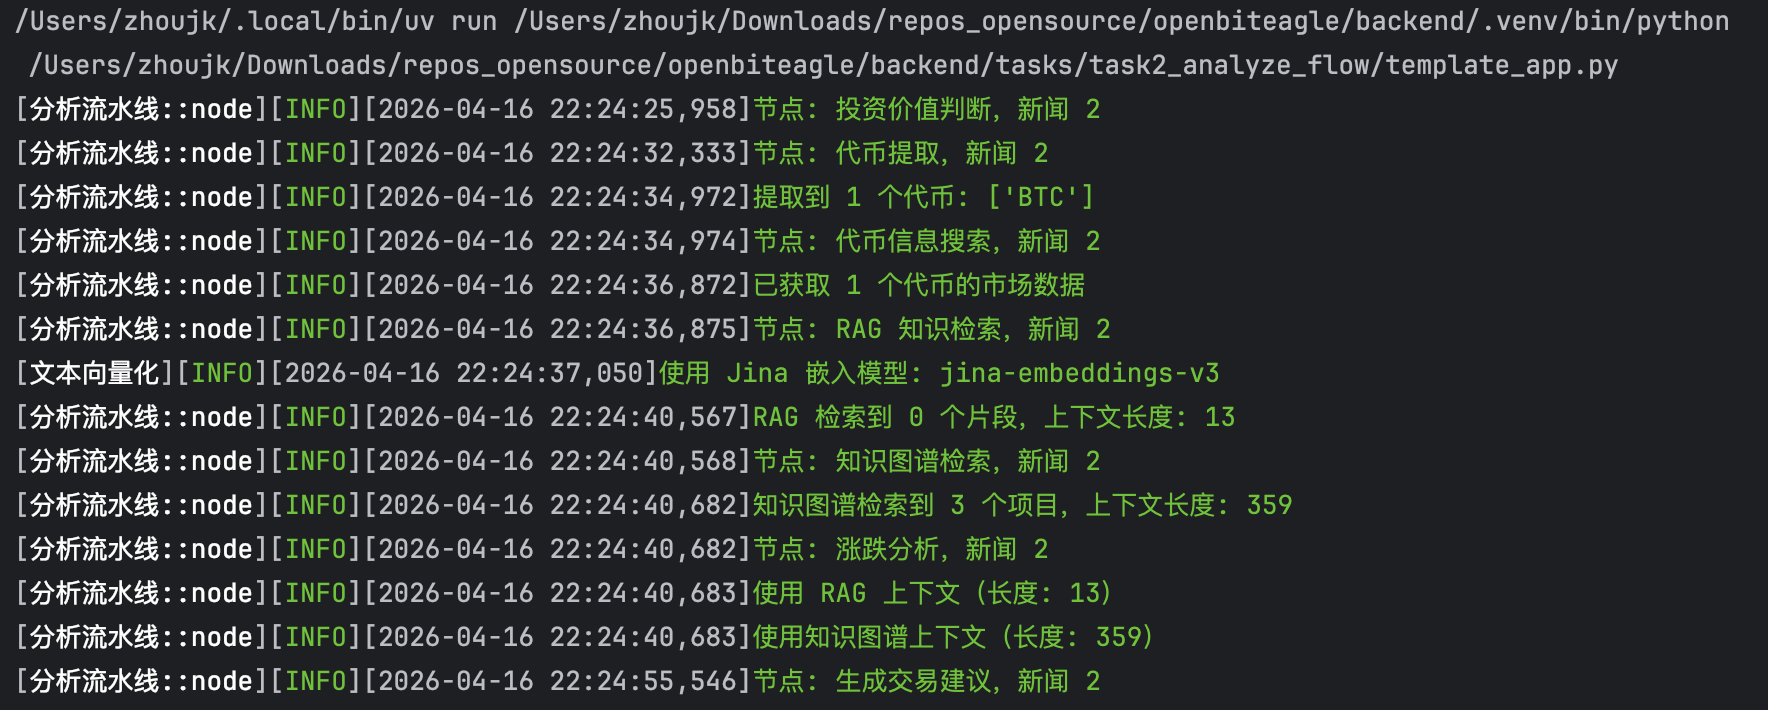
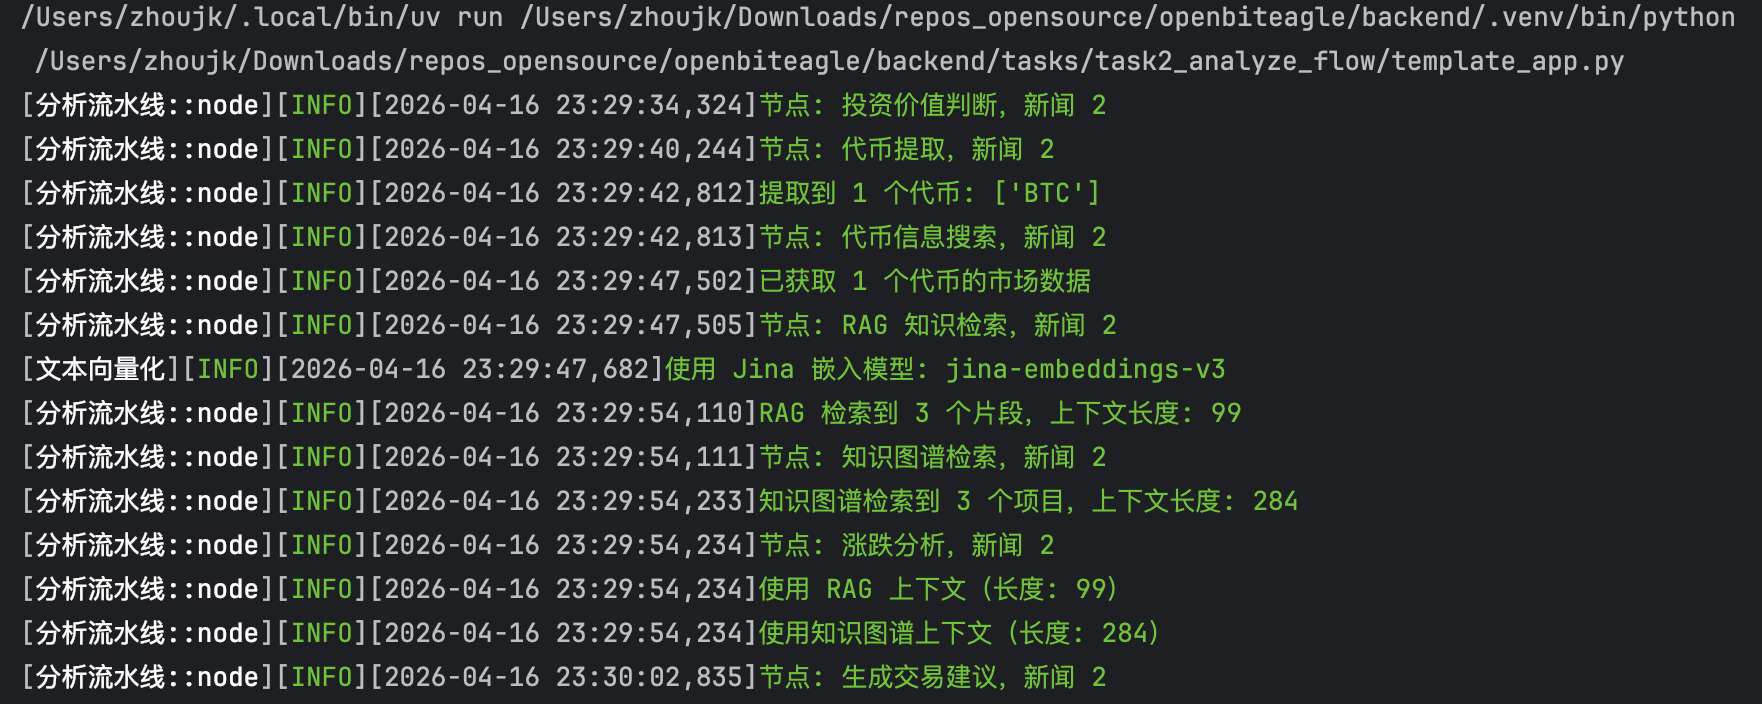
fix: rag extract token

Changed region(s): [[0.0, 0.0, 0.9989, 1.0]]

diff --git a/backend/scripts/fix_chunk_tokens.py b/backend/scripts/fix_chunk_tokens.py
@@ -1,0 +1,143 @@
+#!/usr/bin/env python3
+"""修复现有 DocumentChunk 的 tokens 字段。
+
+对每个文档，调用 LLM 提取代币符号，然后批量更新该文档下所有 chunks。
+1 个文档 = 1 次 LLM 调用。
+
+用法：
+  python scripts/fix_chunk_tokens.py          # 预览模式，只显示将做的修改
+  python scripts/fix_chunk_tokens.py --apply   # 实际写入数据库
+"""
+
+import argparse
+import asyncio
+import sys
+from pathlib import Path
+
+sys.path.insert(0, str(Path(__file__).parent.parent))
+
+from sqlalchemy import select, update
+
+from app.data.db import AsyncSessionLocal
+from app.models.document import Document, DocumentChunk
+from app.rag.embeddings import extract_tokens_from_text
+
+
+async def build_doc_tokens_map() -> dict[int, list[str]]:
+    """为每个文档调用 LLM 提取 tokens（1 个文档 1 次 LLM 调用）。
+
+    优先使用 metadata["tokens"]，否则用 LLM 从标题+内容提取。
+    """
+    doc_tokens: dict[int, list[str]] = {}
+
+    async with AsyncSessionLocal() as db:
+        result = await db.execute(select(Document))
+        docs = result.scalars().all()
+
+        for doc in docs:
+            tokens = (doc.meta_data or {}).get("tokens", [])
+            if not tokens:
+                text = f"{doc.title} {doc.content[:2000]}"
+                print(f"   🤖 LLM 提取代币: 文档 {doc.id} ({doc.title})")
+                tokens = await extract_tokens_from_text(text)
+            doc_tokens[doc.id] = tokens
+
+    return doc_tokens
+
+
+async def fix_chunk_tokens(apply: bool = False):
+    """扫描并修复所有 chunk 的 tokens。"""
+    print("=" * 60)
+    print("修复 DocumentChunk tokens 字段")
+    print(f"模式: {'写入' if apply else '预览（加 --apply 实际写入）'}")
+    print("=" * 60)
+    print()
+
+    # 1. 构建文档 → tokens 映射（按文档调用 LLM）
+    print("正在扫描文档并提取代币...")
+    doc_tokens = await build_doc_tokens_map()
+    print(f"   共 {len(doc_tokens)} 篇文档")
+    print()
+
+    # 2. 遍历所有 chunk
+    async with AsyncSessionLocal() as db:
+        result = await db.execute(
+            select(DocumentChunk).order_by(DocumentChunk.document_id, DocumentChunk.chunk_index)
+        )
+        chunks = result.scalars().all()
+
+        print(f"共 {len(chunks)} 个分块")
+        print()
+
+        to_update = []
+        empty_count = 0
+
+        for chunk in chunks:
+            # 文档级 tokens 直接继承
+            new_tokens = doc_tokens.get(chunk.document_id, [])
+            old_tokens = list(chunk.tokens) if chunk.tokens else []
+
+            if new_tokens != old_tokens:
+                to_update.append((chunk.id, old_tokens, new_tokens))
+                if not old_tokens:
+                    empty_count += 1
+
+        # 3. 汇总统计
+        print(f"需要修复: {len(to_update)} 个分块（其中 {empty_count} 个 tokens 为空）")
+
+        if not to_update:
+            print()
+            print("所有分块 tokens 已正确，无需修复。")
+            return
+
+        # 按文档分组显示
+        current_doc_id = None
+        for chunk_id, old, new in to_update[:30]:
+            for chunk in chunks:
+                if chunk.id == chunk_id:
+                    if chunk.document_id != current_doc_id:
+                        current_doc_id = chunk.document_id
+                        doc_tok = doc_tokens.get(current_doc_id, [])
+                        print(f"\n   文档 {current_doc_id} (tokens: {doc_tok})")
+                    break
+            old_str = ", ".join(old) if old else "(empty)"
+            new_str = ", ".join(new) if new else "(empty)"
+            print(f"     chunk {chunk_id}: [{old_str}] -> [{new_str}]")
+
+        if len(to_update) > 30:
+            print(f"\n   ... 还有 {len(to_update) - 30} 个分块未显示")
+
+        if not apply:
+            print()
+            print("这是预览模式。运行 'python scripts/fix_chunk_tokens.py --apply' 实际写入。")
+            return
+
+        # 4. 批量更新
+        print()
+        print("正在写入数据库...")
+
+        updated = 0
+        for chunk_id, old, new in to_update:
+            await db.execute(
+                update(DocumentChunk)
+                .where(DocumentChunk.id == chunk_id)
+                .values(tokens=new)
+            )
+            updated += 1
+            if updated % 100 == 0:
+                print(f"   已更新 {updated}/{len(to_update)}...")
+
+        await db.commit()
+
+        print()
+        print("=" * 60)
+        print(f"已修复 {updated} 个分块的 tokens 字段")
+        print("=" * 60)
+
+
+if __name__ == "__main__":
+    parser = argparse.ArgumentParser(description="修复 DocumentChunk 的 tokens 字段")
+    parser.add_argument("--apply", action="store_true", help="实际写入数据库（默认为预览模式）")
+    args = parser.parse_args()
+
+    asyncio.run(fix_chunk_tokens(apply=args.apply))

diff --git a/backend/app/rag/embeddings.py b/backend/app/rag/embeddings.py
@@ -3,11 +3,78 @@
 from typing import Optional
 
 import httpx
+from pydantic import BaseModel, Field
 
 from app.core.config import cfg
 from app.data.logger import create_logger
 
 logger = create_logger("文本向量化")
+
+
+# ── LLM 代币提取 ──────────────────────────────────────────────
+
+class TokenSymbolOutput(BaseModel):
+    """LLM 结构化输出：代币符号列表。"""
+    symbols: list[str] = Field(default_factory=list, description="提取到的代币符号列表，如 ['BTC', 'ETH']")
+
+
+_TOKEN_EXTRACTION_PROMPT = """你是一名加密货币专家。请从以下文本中提取所有相关的加密货币代币符号。
+
+## 文本内容
+{content}
+
+## 任务
+
+识别文本中提到的加密货币、区块链项目或公司，返回它们的交易代码（symbol），例如 BTC、ETH、SOL 等。
+
+要求：
+- 能识别中文描述（如"比特币"→BTC、"以太坊"→ETH、"索拉纳"→SOL）
+- 能识别英文全称（如 Bitcoin→BTC、Ethereum→ETH）
+- 能识别常见变体写法和简称
+- 能识别项目/公司关联的代币（如提到 Circle 应返回 USDC，提到 Uniswap 应返回 UNI）
+- 排除已停止维护/废弃的项目
+- 排除仅被一带而过、与主题无关的代币
+- 宁可多提取也不要遗漏，因为结果用于 RAG 检索过滤
+
+如果未找到相关代币，请返回空列表。"""
+
+
+async def extract_tokens_from_text(text: str) -> list[str]:
+    """调用 LLM 从文本中提取代币符号。
+
+    Args:
+        text: 待提取的文本（建议不超过 2000 字符以提高速度和准确性）
+
+    Returns:
+        代币符号列表，如 ["BTC", "ETH"]
+    """
+    from app.wrappers.llm.client import call_llm_structured, get_llm
+
+    llm = get_llm(temperature=0)
+    prompt = _TOKEN_EXTRACTION_PROMPT.format(content=text[:2000])
+
+    schema = {
+        "type": "object",
+        "properties": {
+            "symbols": {
+                "type": "array",
+                "items": {"type": "string"},
+            }
+        },
+        "required": ["symbols"],
+    }
+
+    try:
+        result = await call_llm_structured(llm, prompt, TokenSymbolOutput, schema)
+        tokens = [s.upper() for s in result.symbols]
+        logger.info(f"LLM 提取代币: {tokens}")
+        return tokens
+    except Exception as e:
+        logger.warning(f"LLM 代币提取失败: {e}")
+        return []
+
+
+# ── 嵌入服务 ──────────────────────────────────────────────────
 
 
 class JinaEmbeddings:
@@ -197,13 +264,24 @@ class EmbeddingService:
 
         embedding_vectors = await self.embed_texts(chunks)
 
+        # 从文档 metadata 中提取 tokens
+        doc_tokens = (doc.meta_data or {}).get("tokens", [])
+
+        # 如果文档 metadata 没有 tokens，调用 LLM 从标题和内容中提取
+        if not doc_tokens:
+            doc_tokens = await extract_tokens_from_text(
+                f"{doc.title} {doc.content[:2000]}"
+            )
+
         async with AsyncSessionLocal() as db:
             for i, (chunk, embedding) in enumerate(zip(chunks, embedding_vectors)):
+                # 每个 chunk 继承文档级 tokens
                 chunk_record = DocumentChunk(
                     document_id=document_id,
                     chunk_index=i,
                     content=chunk,
                     embedding=embedding,
+                    tokens=list(doc_tokens),
                 )
                 db.add(chunk_record)
 

diff --git a/backend/tasks/task4_rag_knowledge/import_whitepapers.py b/backend/tasks/task4_rag_knowledge/import_whitepapers.py
@@ -109,6 +109,7 @@ async def _process_whitepaper(pdf_path: Path) -> dict:
         return {"file": filename, "status": "duplicate", "existing_id": existing_id}
 
     # 存入 Document 表
+    # 不设 tokens，让 process_document 通过 LLM 从内容中提取
     doc_id = await insert_document(
         title=pdf_path.stem,
         content=content,

diff --git a/README.md b/README.md
@@ -22,7 +22,7 @@ frontend/  # 前端界面
 infra/     # 基础设施
 ```
 
-## 任务说明
+## 任务
 
 ### ✅ 任务 1：数据获取
 
@@ -102,7 +102,7 @@ should_continue: True
     - 处理失败时进行重试，超过重试次数进入死信队列
 - 分析完成后将结果写入数据库
 
-### 任务 4：RAG知识库
+### ✅ 任务 4：RAG知识库
 
 增强RAG分析能力，构建知识库并实现检索，4步：
 
@@ -150,7 +150,7 @@ langsmith界面查看langgraph流水线执行结果如下：
 
 图-langsmith界面查看langgraph流水线执行结果
 
-### 任务 7：知识图谱
+### ✅ 任务 7：知识图谱
 
 使用知识图谱补充实体关系信息。
 
@@ -168,7 +168,7 @@ langsmith界面查看langgraph流水线执行结果如下：
 
 ## 完整案例
 
-## 新闻
+**新闻**
 
 ```
 "news_id": 2,
@@ -176,55 +176,56 @@ langsmith界面查看langgraph流水线执行结果如下：
 "content": "The SEC has officially approved the Bitcoin ETF application."
 ```
 
-## 日志
+**日志**
 
 ![工作流运行日志](./backend/assets/工作流运行日志.png)
 
 图-工作流运行日志
 
-## 结果
+**结果**
 
-```
-news_id: 2
-title: Bitcoin ETF approved by SEC
-content: The SEC has officially approved the Bitcoin ETF application.
-investment_value: bullish
-investment_confidence: 0.9
-investment_reasoning: 1. 代币明确性：新闻明确指向比特币（Bitcoin）。2. 市场影响：SEC批准比特币ETF是重大实质性利好，将大幅降低传统投资者参与比特币投资的门槛，预期带来大量新增资金流入。3. 信息质量：假设新闻来源为权威媒体（如SEC官方公告），信息高度可靠且可验证。4. 市场关注度：此为市场长期期待的关键事件，极有可能引发全球性高度关注、显著增加交易量并推动价格上涨。
-tokens: [{'symbol': 'BTC', 'name': 'Bitcoin', 'confidence': 1.0}]
-token_details: {'BTC': {'symbol': 'BTC', 'name': 'Bitcoin', 'price': 73516.55777901717, 'market_cap': 1471554250552.1128, 'change_24h': -1.10282671, 'volume_24h': 38214267520.941475}}
-rag_context: 在知识库中未找到相关信息。
-rag_sources: []
-kg_context: ## Related Projects (3)
-- BitcoinOS: No description
-- BTC: No description
-- BTC Digital: No description
+- 预测结果
 
-## Entity Relationships (21)
-- Investor: DNA Fund (近期比特币原生项目融资（2024-2025年）（2025）)
-- Investor: FalconX (近期比特币原生项目融资（2024-2025年）（2025）)
-- Investor: Greenfield Capital (近期比特币原生项目融资（2024-2025年）（2025）)
-- Person: Michael Ford (核心开发者)
-- Person: Ava Chow (核心开发者)
-kg_entities: {'projects': [{'name': 'BitcoinOS'}, {'name': 'BTC'}, {'name': 'BTC Digital'}], 'tokens': [], 'relationships': [{'institution': {'name': 'DNA Fund'}, 'round_type': '近期比特币原生项目融资（2024-2025年）（2025）', 'amount': '1000万美元'}, {'institution': {'name': 'FalconX'}, 'round_type': '近期比特币原生项目融资（2024-2025年）（2025）', 'amount': '1000万美元'}, {'institution': {'name': 'Greenfield Capital'}, 'round_type': '近期比特币原生项目融资（2024-2025年）（2025）', 'amount': '1000万美元'}, {'person': {'name': 'Michael Ford'}, 'relationship': 'WORKS_AT', 'role': '核心开发者'}, {'person': {'name': 'Ava Chow'}, 'relationship': 'WORKS_AT', 'role': '核心开发者'}, {'person': {'name': 'Hennadii Stepanov'}, 'relationship': 'WORKS_AT', 'role': '核心贡献者'}, {'person': {'name': 'Gloria Zhao'}, 'relationship': 'WORKS_AT', 'role': '核心维护者'}, {'person': {'name': 'Portland'}, 'relationship': 'WORKS_AT', 'role': '核心贡献者'}, {'person': {'name': 'Luke Dashjr'}, 'relationship': 'WORKS_AT', 'role': '核心开发者'}, {'institution': {'name': 'Blockchain Capital'}, 'round_type': '主要投资机构', 'amount': None}, {'institution': {'name': 'Pantera Capital'}, 'round_type': '主要投资机构', 'amount': None}, {'institution': {'name': 'Digital Currency Group'}, 'round_type': '主要投资机构', 'amount': None}, {'institution': {'name': 'Union Square Ventures'}, 'round_type': '主要投资机构', 'amount': None}, {'institution': {'name': 'a16z'}, 'round_type': '主要投资机构', 'amount': None}, {'institution': {'name': 'Y Combinator'}, 'round_type': '主要投资机构', 'amount': None}, {'institution': {'name': 'Plug and Play'}, 'round_type': '主要投资机构', 'amount': None}, {'institution': {'name': 'Boost VC'}, 'round_type': '主要投资机构', 'amount': None}, {'institution': {'name': 'Valor Equity Partners'}, 'round_type': '主要投资机构', 'amount': None}, {'institution': {'name': 'Accomplice'}, 'round_type': '主要投资机构', 'amount': None}, {'institution': {'name': 'Ribbit Capital'}, 'round_type': '主要投资机构', 'amount': None}, {'institution': {'name': 'Founders Fund'}, 'round_type': '主要投资机构', 'amount': None}]}
-trend_analysis: **短期方向**：消息公布后市场可能出现“买预期，卖事实”的短期获利了结（当前24h已跌1.1%），但SEC正式批准将打开传统资本合规入场的闸门，预计抛压消化后资金流入将推动价格反弹。  
+  ```
+  news_id: 2
+  title: Bitcoin ETF approved by SEC
+  content: The SEC has officially approved the Bitcoin ETF application.
+  investment_value: bullish
+  investment_confidence: 0.9
+  investment_reasoning: 新闻明确提到比特币ETF获SEC批准，这是加密货币市场期待已久的重大监管突破，将显著降低传统投资者进入比特币市场的门槛，带来大量新增资金流入预期。信息来源（SEC）权威可靠，事件具有里程碑意义，极可能引发市场高度关注和交易量激增，对比特币及整个加密市场构成实质性利好。
+  tokens: [{'symbol': 'BTC', 'name': 'Bitcoin', 'confidence': 1.0}]
+  ```
 
-**关键因素**：  
-1. **机构准入**：ETF批准消除了传统投资者持有BTC的主要障碍，知识库中DNA Fund、FalconX等机构已活跃于比特币生态投资（如BitcoinOS），后续可能通过ETF加大配置。  
-2. **生态联动**：知识库显示比特币核心开发者（如Michael Ford）及Layer2项目（BitcoinOS）持续推动技术迭代，ETF带来的流动性可能溢出至BTC生态项目（如BTC Digital），强化基本面支撑。  
+- 推理过程
 
-**风险考量**：  
-1. **技术面压力**：若ETF初期资金流入不及预期，叠加近期涨幅过大，可能引发深度回调。  
-2. **生态脆弱性**：知识库中比特币原生项目仍处早期（融资集中在2024-2025年），若开发进展滞后（如核心开发者变动），可能削弱长期叙事吸引力。  
+  ```
+  token_details: {'BTC': {'symbol': 'BTC', 'name': 'Bitcoin', 'price': 74364.19153583348, 'market_cap': 1488523556153.7634, 'change_24h': 0.38363839, 'volume_24h': 40404406940.62615}}
+  rag_context: 根据提供的上下文，没有明确信息表明美国证券交易委员会（SEC）在2026年批准了比特币ETF。上下文提到比特币现货ETF是在**2024年1月**获批的，并重点描述了其在2026年的发展状况和影响。
+  rag_sources: [{'chunk_id': 536, 'similarity': np.float32(0.81688404)}, {'chunk_id': 535, 'similarity': np.float32(0.8012183)}, {'chunk_id': 532, 'similarity': np.float32(0.7725047)}]
+  kg_context: ## Related Projects (3)
+  - BTC: No description
+  - BTC Digital: No description
+  - BitcoinOS: No description
 
-**时间范围**：资金流入效应将在1-3个月逐步显现，但中期波动可能加剧，需观察ETF月度净流入数据及生态项目进展（如BitcoinOS落地）。  
+  ## Entity Relationships (21)
+  - Person: Michael Ford (核心开发者)
+  - Person: Ava Chow (核心开发者)
+  - Person: Hennadii Stepanov (核心贡献者)
+  - Person: Gloria Zhao (核心维护者)
+  - Person: Portland (核心贡献者)
+  kg_entities: {'projects': [{'name': 'BTC'}, {'name': 'BTC Digital'}, {'name': 'BitcoinOS'}], 'tokens': [], 'relationships': [{'person': {'name': 'Michael Ford'}, 'relationship': 'WORKS_AT', 'role': '核心开发者'}, {'person': {'name': 'Ava Chow'}, 'relationship': 'WORKS_AT', 'role': '核心开发者'}, {'person': {'name': 'Hennadii Stepanov'}, 'relationship': 'WORKS_AT', 'role': '核心贡献者'}, {'person': {'name': 'Gloria Zhao'}, 'relationship': 'WORKS_AT', 'role': '核心维护者'}, {'person': {'name': 'Portland'}, 'relationship': 'WORKS_AT', 'role': '核心贡献者'}, {'person': {'name': 'Luke Dashjr'}, 'relationship': 'WORKS_AT', 'role': '核心开发者'}, {'institution': {'name': 'Blockchain Capital'}, 'round_type': '主要投资机构', 'amount': None}, {'institution': {'name': 'Pantera Capital'}, 'round_type': '主要投资机构', 'amount': None}, {'institution': {'name': 'Digital Currency Group'}, 'round_type': '主要投资机构', 'amount': None}, {'institution': {'name': 'Union Square Ventures'}, 'round_type': '主要投资机构', 'amount': None}, {'institution': {'name': 'a16z'}, 'round_type': '主要投资机构', 'amount': None}, {'institution': {'name': 'Y Combinator'}, 'round_type': '主要投资机构', 'amount': None}, {'institution': {'name': 'Plug and Play'}, 'round_type': '主要投资机构', 'amount': None}, {'institution': {'name': 'Boost VC'}, 'round_type': '主要投资机构', 'amount': None}, {'institution': {'name': 'Valor Equity Partners'}, 'round_type': '主要投资机构', 'amount': None}, {'institution': {'name': 'Accomplice'}, 'round_type': '主要投资机构', 'amount': None}, {'institution': {'name': 'Ribbit Capital'}, 'round_type': '主要投资机构', 'amount': None}, {'institution': {'name': 'Founders Fund'}, 'round_type': '主要投资机构', 'amount': None}, {'institution': {'name': 'DNA Fund'}, 'round_type': '近期比特币原生项目融资（2024-2025年）（2025）', 'amount': '1000万美元'}, {'institution': {'name': 'FalconX'}, 'round_type': '近期比特币原生项目融资（2024-2025年）（2025）', 'amount': '1000万美元'}, {'institution': {'name': 'Greenfield Capital'}, 'round_type': '近期比特币原生项目融资（2024-2025年）（2025）', 'amount': '1000万美元'}]}
+  trend_analysis: **短期方向**：新闻虽为旧闻（SEC已于2024年1月批准比特币现货ETF），但若市场误读为“新批准”，可能引发短暂情绪性买盘，推动BTC价格小幅冲高。  
 
-**趋势分析**：SEC批准比特币ETF是结构性利好，短期波动不改中长期上行趋势。结合知识库中机构投资者（如Greenfield Capital）已布局比特币生态，ETF将加速资本向BTC及Layer2项目（如BitcoinOS）扩散，但需警惕技术性回调及生态发展不及预期的风险。
-recommendation: buy
-risk_level: medium
-recommendation_reasoning: SEC批准比特币ETF是结构性利好，消除了传统资本入场的合规障碍，预计将驱动中长期资金流入。尽管短期存在‘买预期，卖事实’的获利了结压力，但抛压消化后，结合机构配置需求（如DNA Fund、Greenfield Capital）及生态发展（BitcoinOS等Layer2项目），价格有望重拾升势。建议利用短期回调分批买入，以捕捉中长期上行趋势。
-should_continue: True
-```
+  **关键因素**：实际价格驱动将依赖ETF的持续资金流入（知识库显示2026年ETF已成为主流投资渠道）及宏观流动性，而非“获批”本身。  
+
+  **风险考量**：若ETF资金流入放缓或出现净流出（反映在知识库中的“发展状况”数据），或比特币网络开发进展滞后（如知识库提及的核心开发者贡献减少），涨势可能逆转。  
+
+  **时间范围**：情绪性影响仅持续数小时至数日，中长期趋势仍取决于ETF资金流与比特币生态基本面。
+  recommendation: hold
+  risk_level: medium
+  recommendation_reasoning: 新闻为旧闻，短期情绪性买盘可能带来小幅冲高但不可持续。中长期趋势取决于ETF资金流和比特币生态基本面，当前信号中性且不确定性较高。作为稳健型交易，应等待更明确的催化剂或价格驱动因素。
+  should_continue: True
+  ```
 
 
 
